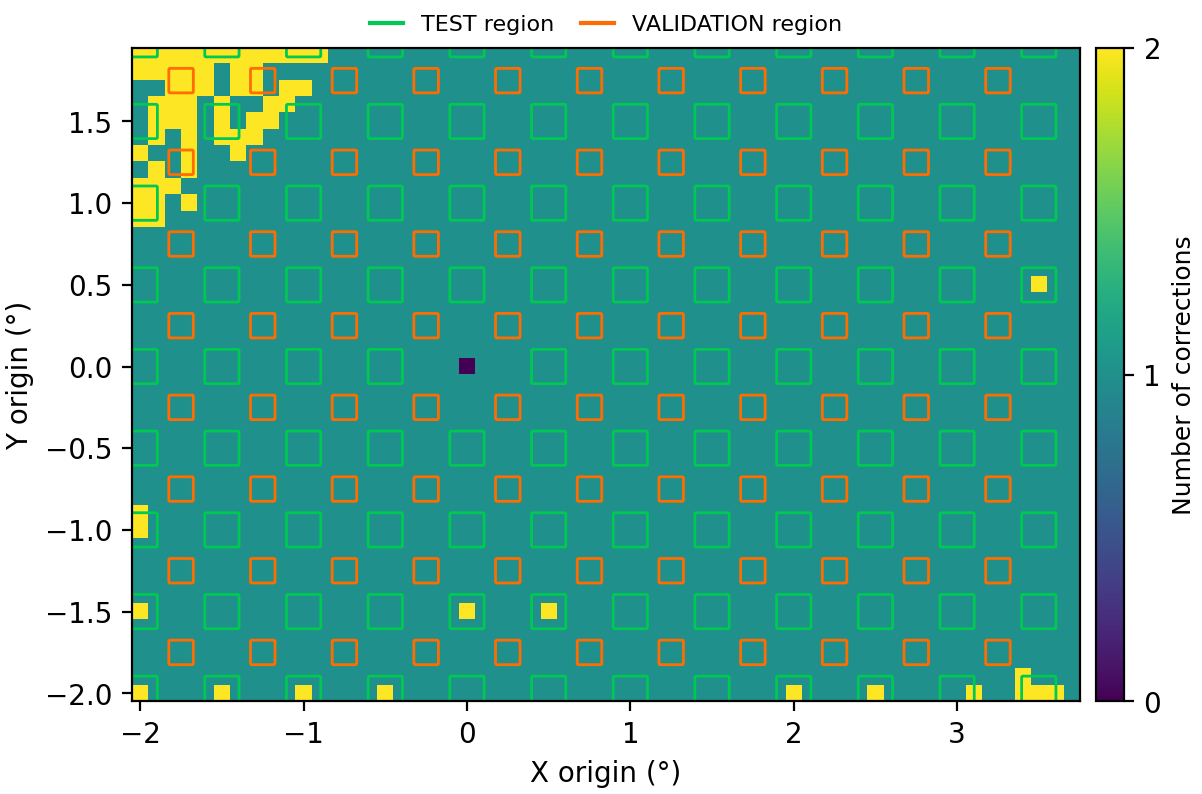
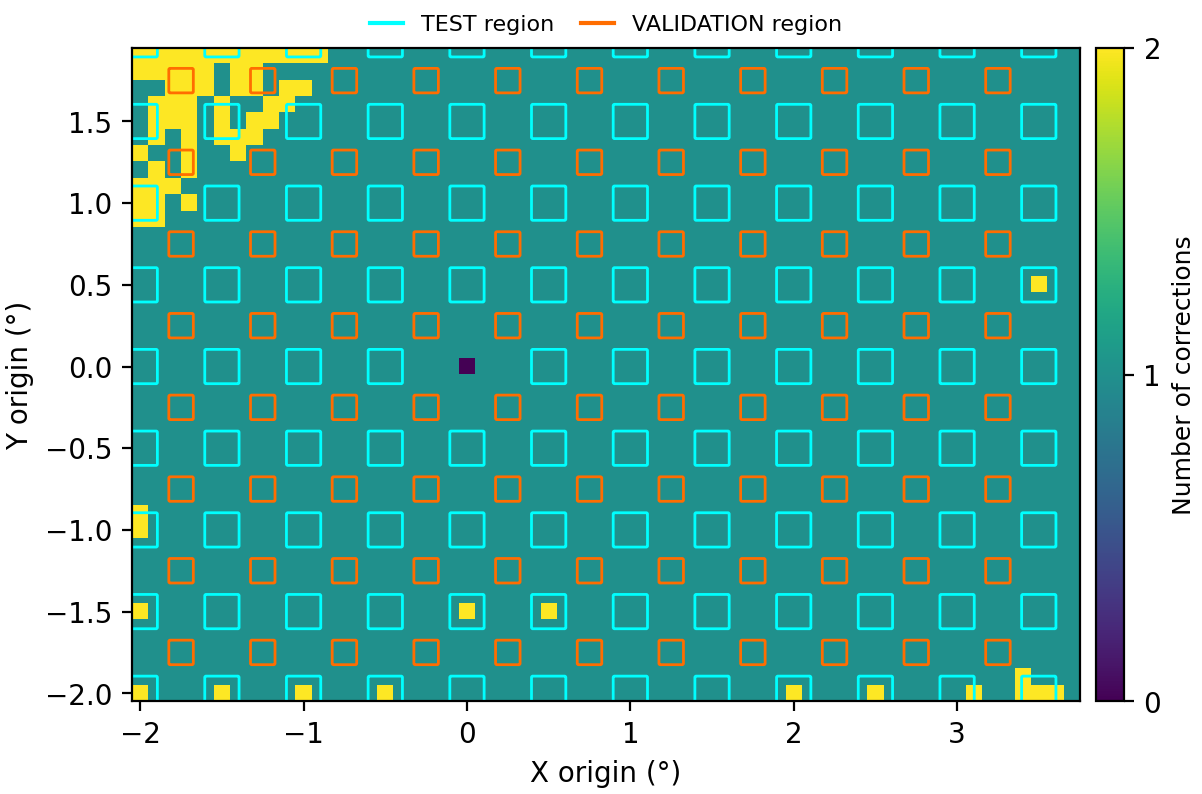
Blur perturbation, cyan/orange split palette, mlp256 in the data tables
- eval_batched.py: --blur N applies a box blur of that odd kernel before every other
  perturbation, recorded in settings()/describe() and the W&B keys
- heatmaps.py: TEST cyan, VALIDATION orange, in both the region outlines and the split
  map fills; report section 8 reworded to match
- reports/figures: all six model grids and the split map regenerated in the new palette
- reports/data: mlp256 (job 3943793, 67.38 M params, selected epoch 91) added to
  sweep_v2.md, tables_v2.md and the model table; its sweep is 43 conditions over 10
  perturbation seeds, its noise curve 9 levels over 10 seeds

Claude-Session: https://claude.ai/code/session_01XFnqH8k2tyqg3ghxTQtiGH

diff --git a/utils/eval_batched.py b/utils/eval_batched.py
@@ -73,7 +73,7 @@ from app.inference import model_from_state_dict, evaluate_position  # noqa: E402
 
 DEFAULT_CHECKPOINT = REPO_ROOT / "saved_models" / "real" / "r512_occ05-20img_n10_e96_3854472.pth"
 DEFAULT_DATA_DIR = "/mnt/h/dark512"
-PERTURB_KEYS = ("brightness", "brightness_fixed", "contrast", "contrast_fixed", "noise", "noise_min",
+PERTURB_KEYS = ("brightness", "brightness_fixed", "contrast", "contrast_fixed", "blur", "noise", "noise_min",
                 "occlusion_count", "occlusion_min", "occlusion_max", "occlusion_prob", "perturb_ssim",
                 "perturb_seed")
 
@@ -170,6 +170,7 @@ class Perturbation:
         self.brightness_fixed = args.brightness_fixed
         self.contrast = args.contrast
         self.contrast_fixed = args.contrast_fixed
+        self.blur = getattr(args, "blur", 0) or 0
         self.noise = args.noise or 0.0
         self.noise_min = args.noise_min if self.noise > 0 else None
         self.occlusion_count = args.occlusion_count
@@ -187,9 +188,11 @@ class Perturbation:
         self.ssim = bool(args.perturb_ssim)
         self.use_brightness = bool(self.brightness) or self.brightness_fixed is not None
         self.use_contrast = bool(self.contrast) or self.contrast_fixed is not None
+        self.use_blur = self.blur > 1
         self.use_noise = self.noise > 0
         self.use_occlusion = self.occlusion_count > 0 and self.occlusion_prob > 0
-        self.enabled = self.use_brightness or self.use_contrast or self.use_noise or self.use_occlusion
+        self.enabled = (self.use_brightness or self.use_contrast or self.use_blur or self.use_noise
+                        or self.use_occlusion)
 
         H, W = image_shape
         K = max(self.occlusion_count, 0)
@@ -245,6 +248,7 @@ class Perturbation:
             "brightness_fixed": self.brightness_fixed,
             "contrast": self.contrast,
             "contrast_fixed": self.contrast_fixed,
+            "blur": self.blur if self.use_blur else None,
             "noise": self.noise if self.use_noise else None,
             "noise_min": self.noise_min,
             "occlusion_count": self.occlusion_count,
@@ -270,6 +274,8 @@ class Perturbation:
             parts.append(f"contrast factor {self.contrast_fixed}")
         elif self.contrast is not None:
             parts.append(f"contrast factor in [{max(0.0, 1 - self.contrast):g}, {1 + self.contrast:g}] per trajectory")
+        if self.use_blur:
+            parts.append(f"{self.blur}x{self.blur} box blur before the other perturbations")
         if self.use_noise:
             if self.noise_min is not None:
                 parts.append(f"noise sigma in [{self.noise_min:g}, {self.noise:g}] per trajectory, re-drawn per step")
@@ -294,6 +300,11 @@ class Perturbation:
         idx_list = [int(i) for i in idx]
         steps = [0] * len(idx_list) if steps is None else [int(t) for t in steps]
         idx = torch.as_tensor(idx_list, device=self.device, dtype=torch.long)
+        if self.use_blur:
+            # Box blur of the captured frame, before anything else touches it. Edge pixels average
+            # only real pixels (count_include_pad=False), so the border does not darken.
+            x = torch.nn.functional.avg_pool2d(x, self.blur, stride=1, padding=self.blur // 2,
+                                               count_include_pad=False)
         if self.use_brightness:
             x = (x * self.bright[idx].view(-1, 1, 1, 1)).clamp_(0.0, 1.0)
         if self.use_contrast:
@@ -721,6 +732,9 @@ def parse_args(argv=None):
     c.add_argument("--contrast", type=float, default=None,
                    help="per-trajectory contrast factor drawn once in [1-C, 1+C]")
     c.add_argument("--contrast-fixed", type=float, default=None, help="contrast factor F for every trajectory")
+    q.add_argument("--blur", type=int, default=0,
+                   help="box blur of this odd kernel size, applied to the frame before every other "
+                        "perturbation (0: off)")
     q.add_argument("--noise", type=float, default=None, help="additive Gaussian noise sigma (in [0, 1] units), re-drawn per step")
     q.add_argument("--noise-min", type=float, default=None,
                    help="with --noise S: sigma drawn once per trajectory in [min, S]")
@@ -745,6 +759,8 @@ def parse_args(argv=None):
     args = p.parse_args(argv)
     if args.noise_min is not None and (args.noise is None or args.noise_min >= args.noise):
         p.error("--noise-min needs --noise S with min < S")
+    if args.blur and (args.blur < 3 or args.blur % 2 == 0):
+        p.error("--blur needs an odd kernel size >= 3")
     for name in ("brightness", "brightness_fixed", "contrast", "contrast_fixed", "noise"):
         v = getattr(args, name)
         if v is not None and v < 0:

diff --git a/holdout/heatmaps.py b/holdout/heatmaps.py
@@ -45,13 +45,13 @@ import matplotlib.ticker
 
 TRAIN, VAL, TEST = 0, 1, 2
 SPLIT_CODE = {"train": TRAIN, "val": VAL, "test": TEST}
-SPLIT_COLORS = {"train": "#4C72B0", "val": "#DD8452", "test": "#55A868"}
+SPLIT_COLORS = {"train": "#4C72B0", "val": "#FF6D00", "test": "#00FFFF"}
 GROUP_ORDER = ["train", "val", "test"]
 # display only; the CSV and stdout keep the short group names
 GROUP_LABELS = {"train": "train", "val": "validation", "test": "test"}
 
 # split map hues, saturated: the muted fills blend into viridis when drawn as thin lines
-TEST_OUTLINE_COLOR = "#00C853"
+TEST_OUTLINE_COLOR = "#00FFFF"
 VAL_OUTLINE_COLOR = "#FF6D00"
 NOT_CONVERGED_COLOR = "#FF3B30"
 

diff --git a/reports/data/sweep_v2.md b/reports/data/sweep_v2.md
@@ -1,45 +1,45 @@
-| condition | r64 | r128 | r256 | r512 | mlp128 |
-|---|---|---|---|---|---|
-| clean | 100.00±0.00% / 1.06 / 0.018±0.000 | 100.00±0.00% / 1.04 / 0.014±0.000 | 100.00±0.00% / 1.02 / 0.009±0.000 | 100.00±0.00% / 1.03 / 0.016±0.000 | 100.00±0.00% / 1.11 / 0.029±0.000 |
-| noise_0.02 | 100.00±0.00% / 1.06 / 0.018±0.000 | 100.00±0.00% / 1.04 / 0.014±0.000 | 100.00±0.00% / 1.02 / 0.009±0.000 | 100.00±0.00% / 1.03 / 0.014±0.000 | 100.00±0.00% / 1.10 / 0.027±0.000 |
-| noise_0.05 | 100.00±0.00% / 1.07 / 0.019±0.000 | 100.00±0.00% / 1.04 / 0.014±0.000 | 100.00±0.00% / 1.02 / 0.009±0.000 | 100.00±0.00% / 1.03 / 0.015±0.000 | 100.00±0.00% / 1.10 / 0.026±0.000 |
-| noise_0.10 | 100.00±0.00% / 1.11 / 0.022±0.000 | 100.00±0.00% / 1.06 / 0.016±0.000 | 100.00±0.00% / 1.03 / 0.012±0.000 | 100.00±0.00% / 1.04 / 0.016±0.000 | 100.00±0.00% / 1.10 / 0.026±0.000 |
-| noise_0.15 | 100.00±0.00% / 1.15 / 0.026±0.000 | 100.00±0.00% / 1.09 / 0.018±0.000 | 100.00±0.00% / 1.04 / 0.016±0.000 | 100.00±0.00% / 1.04 / 0.017±0.000 | 100.00±0.00% / 1.11 / 0.027±0.000 |
-| noise_0.20 | 100.00±0.00% / 1.23 / 0.032±0.000 | 100.00±0.00% / 1.11 / 0.021±0.000 | 100.00±0.00% / 1.08 / 0.021±0.000 | 100.00±0.00% / 1.06 / 0.019±0.000 | 100.00±0.00% / 1.13 / 0.028±0.000 |
-| noise_0.30 | 100.00±0.00% / 1.45 / 0.033±0.000 | 100.00±0.00% / 1.19 / 0.024±0.000 | 100.00±0.00% / 1.22 / 0.028±0.000 | 100.00±0.00% / 1.18 / 0.028±0.000 | 100.00±0.00% / 1.24 / 0.033±0.000 |
-| brightness_0.4 | 89.53±0.00% / 1.17 / 0.034±0.000 | 100.00±0.00% / 1.14 / 0.021±0.000 | 100.00±0.00% / 1.09 / 0.020±0.000 | 100.00±0.00% / 1.32 / 0.026±0.000 | 100.00±0.00% / 1.44 / 0.035±0.000 |
-| brightness_0.6 | 100.00±0.00% / 1.09 / 0.022±0.000 | 100.00±0.00% / 1.05 / 0.015±0.000 | 100.00±0.00% / 1.03 / 0.011±0.000 | 100.00±0.00% / 1.04 / 0.018±0.000 | 100.00±0.00% / 1.16 / 0.029±0.000 |
-| brightness_0.8 | 100.00±0.00% / 1.06 / 0.018±0.000 | 100.00±0.00% / 1.04 / 0.013±0.000 | 100.00±0.00% / 1.02 / 0.009±0.000 | 100.00±0.00% / 1.03 / 0.016±0.000 | 100.00±0.00% / 1.11 / 0.028±0.000 |
-| brightness_1.2 | 100.00±0.00% / 1.06 / 0.018±0.000 | 100.00±0.00% / 1.03 / 0.014±0.000 | 100.00±0.00% / 1.02 / 0.009±0.000 | 100.00±0.00% / 1.03 / 0.016±0.000 | 100.00±0.00% / 1.12 / 0.030±0.000 |
-| brightness_1.4 | 100.00±0.00% / 1.07 / 0.019±0.000 | 100.00±0.00% / 1.04 / 0.014±0.000 | 100.00±0.00% / 1.02 / 0.010±0.000 | 100.00±0.00% / 1.04 / 0.018±0.000 | 100.00±0.00% / 1.17 / 0.032±0.000 |
-| brightness_1.6 | 100.00±0.00% / 1.09 / 0.022±0.000 | 100.00±0.00% / 1.04 / 0.016±0.000 | 100.00±0.00% / 1.03 / 0.012±0.000 | 100.00±0.00% / 1.07 / 0.021±0.000 | 100.00±0.00% / 1.28 / 0.036±0.000 |
-| contrast_0.9 | 100.00±0.00% / 1.06 / 0.018±0.000 | 100.00±0.00% / 1.04 / 0.013±0.000 | 100.00±0.00% / 1.02 / 0.009±0.000 | 100.00±0.00% / 1.03 / 0.017±0.000 | 100.00±0.00% / 1.11 / 0.028±0.000 |
-| contrast_1.1 | 100.00±0.00% / 1.05 / 0.018±0.000 | 100.00±0.00% / 1.03 / 0.014±0.000 | 100.00±0.00% / 1.02 / 0.009±0.000 | 100.00±0.00% / 1.03 / 0.016±0.000 | 100.00±0.00% / 1.11 / 0.028±0.000 |
-| occlusion_1 | 100.00±0.01% / 1.12 / 0.022±0.000 | 100.00±0.00% / 1.07 / 0.018±0.000 | 100.00±0.00% / 1.04 / 0.014±0.000 | 99.90±0.07% / 1.09 / 0.023±0.000 | 92.65±0.44% / 1.38 / 0.046±0.001 |
-| occlusion_2 | 99.96±0.04% / 1.20 / 0.026±0.000 | 99.98±0.02% / 1.12 / 0.022±0.000 | 99.98±0.02% / 1.06 / 0.017±0.000 | 99.11±0.19% / 1.18 / 0.029±0.000 | 82.01±0.39% / 1.64 / 0.069±0.001 |
-| occlusion_1x10 | 100.00±0.00% / 1.07 / 0.019±0.000 | 100.00±0.00% / 1.05 / 0.015±0.000 | 100.00±0.00% / 1.03 / 0.010±0.000 | 100.00±0.00% / 1.04 / 0.017±0.000 | 99.95±0.05% / 1.17 / 0.031±0.000 |
-| occlusion_1x20 | 100.00±0.00% / 1.09 / 0.021±0.000 | 100.00±0.00% / 1.06 / 0.016±0.000 | 100.00±0.00% / 1.03 / 0.012±0.000 | 100.00±0.00% / 1.06 / 0.020±0.000 | 97.46±0.30% / 1.29 / 0.037±0.001 |
-| occlusion_1x30 | 100.00±0.00% / 1.13 / 0.023±0.000 | 100.00±0.00% / 1.08 / 0.018±0.000 | 100.00±0.00% / 1.04 / 0.014±0.000 | 99.98±0.03% / 1.10 / 0.023±0.000 | 91.46±0.45% / 1.43 / 0.048±0.001 |
-| occlusion_1x40 | 99.99±0.02% / 1.20 / 0.026±0.000 | 100.00±0.00% / 1.12 / 0.022±0.000 | 100.00±0.00% / 1.06 / 0.017±0.000 | 98.14±0.24% / 1.22 / 0.031±0.000 | 81.43±0.50% / 1.63 / 0.067±0.002 |
-| occlusion_1x50 | 99.42±0.09% / 1.35 / 0.030±0.000 | 99.97±0.03% / 1.22 / 0.026±0.000 | 99.72±0.09% / 1.14 / 0.023±0.000 | 83.31±0.58% / 1.44 / 0.063±0.001 | 63.54±0.75% / 1.93 / 0.115±0.003 |
-| occlusion_2x10 | 100.00±0.00% / 1.09 / 0.020±0.000 | 100.00±0.00% / 1.05 / 0.016±0.000 | 100.00±0.00% / 1.03 / 0.011±0.000 | 100.00±0.00% / 1.05 / 0.019±0.000 | 99.76±0.13% / 1.23 / 0.033±0.000 |
-| occlusion_2x20 | 100.00±0.00% / 1.13 / 0.023±0.000 | 100.00±0.00% / 1.08 / 0.019±0.000 | 100.00±0.00% / 1.04 / 0.014±0.000 | 99.97±0.02% / 1.09 / 0.023±0.000 | 93.15±0.48% / 1.45 / 0.047±0.001 |
-| occlusion_2x30 | 99.93±0.06% / 1.21 / 0.027±0.000 | 99.98±0.03% / 1.14 / 0.022±0.000 | 100.00±0.01% / 1.07 / 0.018±0.000 | 99.08±0.19% / 1.22 / 0.030±0.000 | 78.47±0.74% / 1.73 / 0.076±0.001 |
-| occlusion_2x40 | 98.99±0.19% / 1.41 / 0.033±0.000 | 99.03±0.25% / 1.27 / 0.029±0.000 | 99.04±0.18% / 1.16 / 0.025±0.001 | 87.07±0.64% / 1.51 / 0.059±0.002 | 57.78±0.76% / 2.02 / 0.153±0.005 |
-| occlusion_2x50 | 92.40±0.45% / 1.76 / 0.057±0.005 | 93.52±0.46% / 1.51 / 0.044±0.002 | 89.97±0.47% / 1.35 / 0.053±0.002 | 50.74±0.83% / 1.83 / 0.199±0.005 | 34.67±0.98% / 2.42 / 0.359±0.010 |
-| occlusion_1x30_bright | 99.98±0.03% / 1.14 / 0.025±0.000 | 100.00±0.00% / 1.07 / 0.019±0.000 | 100.00±0.00% / 1.04 / 0.014±0.000 | 99.99±0.02% / 1.08 / 0.022±0.000 | 86.49±0.78% / 1.55 / 0.055±0.001 |
-| occlusion_2x30_bright | 99.51±0.12% / 1.25 / 0.031±0.000 | 99.96±0.05% / 1.13 / 0.023±0.000 | 99.97±0.03% / 1.07 / 0.018±0.000 | 99.43±0.11% / 1.17 / 0.028±0.000 | 63.94±0.87% / 1.88 / 0.098±0.001 |
-| occlusion_2x50_bright | 63.51±1.03% / 2.06 / 0.177±0.006 | 78.91±0.77% / 1.60 / 0.070±0.001 | 89.83±0.61% / 1.35 / 0.051±0.002 | 60.83±1.05% / 1.85 / 0.140±0.003 | 27.83±0.70% / 3.36 / 0.510±0.015 |
-| occlusion_1x30_rot | 100.00±0.00% / 1.12 / 0.023±0.000 | 100.00±0.00% / 1.08 / 0.018±0.000 | 100.00±0.00% / 1.04 / 0.014±0.000 | 99.97±0.04% / 1.10 / 0.023±0.000 | 91.86±0.62% / 1.42 / 0.048±0.001 |
-| occlusion_2x30_rot | 99.96±0.04% / 1.21 / 0.027±0.000 | 99.98±0.03% / 1.13 / 0.022±0.000 | 100.00±0.01% / 1.06 / 0.018±0.000 | 99.21±0.15% / 1.21 / 0.030±0.000 | 79.14±0.96% / 1.73 / 0.075±0.002 |
-| occlusion_2x50_rot | 93.08±0.38% / 1.77 / 0.055±0.003 | 93.74±0.65% / 1.50 / 0.043±0.002 | 92.04±0.57% / 1.36 / 0.046±0.002 | 54.57±0.83% / 1.89 / 0.172±0.003 | 37.61±0.79% / 2.42 / 0.335±0.008 |
-| occlusion_1x30_rotbright | 99.99±0.02% / 1.13 / 0.024±0.000 | 100.00±0.00% / 1.07 / 0.018±0.000 | 100.00±0.00% / 1.04 / 0.014±0.000 | 100.00±0.00% / 1.07 / 0.021±0.000 | 85.85±0.73% / 1.55 / 0.056±0.001 |
-| occlusion_2x30_rotbright | 99.65±0.14% / 1.24 / 0.030±0.000 | 99.99±0.02% / 1.11 / 0.023±0.000 | 99.97±0.02% / 1.06 / 0.018±0.000 | 99.53±0.11% / 1.14 / 0.027±0.000 | 64.05±1.03% / 1.88 / 0.098±0.002 |
-| occlusion_2x50_rotbright | 74.50±0.89% / 1.82 / 0.107±0.003 | 82.08±1.01% / 1.57 / 0.064±0.002 | 91.69±0.60% / 1.32 / 0.046±0.002 | 67.15±0.51% / 1.84 / 0.122±0.003 | 27.88±0.71% / 3.23 / 0.466±0.008 |
-| occlusion_2_mixed | 99.80±0.08% / 1.21 / 0.027±0.001 | 99.91±0.05% / 1.11 / 0.022±0.000 | 99.97±0.04% / 1.06 / 0.017±0.000 | 99.50±0.13% / 1.15 / 0.027±0.000 | 73.22±0.82% / 1.71 / 0.084±0.001 |
-| occlusion_2x30_fill | 99.81±0.10% / 1.20 / 0.028±0.000 | 99.98±0.02% / 1.11 / 0.022±0.000 | 99.96±0.03% / 1.06 / 0.018±0.000 | 99.47±0.16% / 1.15 / 0.028±0.000 | 84.51±0.81% / 1.59 / 0.061±0.001 |
-| occlusion_2x30_rotfill | 99.82±0.06% / 1.19 / 0.027±0.000 | 99.97±0.04% / 1.10 / 0.022±0.000 | 99.97±0.03% / 1.05 / 0.017±0.000 | 99.66±0.12% / 1.13 / 0.027±0.000 | 84.59±0.75% / 1.58 / 0.060±0.001 |
-| occlusion_2x50_rotfill | 84.22±0.95% / 1.62 / 0.073±0.002 | 90.21±0.47% / 1.44 / 0.047±0.001 | 93.18±0.57% / 1.30 / 0.042±0.002 | 70.00±0.94% / 1.81 / 0.113±0.003 | 48.58±1.42% / 2.41 / 0.234±0.007 |
-| occlusion_2_mixedfill | 99.86±0.07% / 1.17 / 0.026±0.000 | 99.97±0.03% / 1.09 / 0.021±0.000 | 99.99±0.02% / 1.05 / 0.016±0.000 | 99.67±0.09% / 1.12 / 0.025±0.000 | 86.82±0.59% / 1.53 / 0.057±0.001 |
-| combined | 99.64±0.11% / 1.32 / 0.035±0.002 | 99.95±0.05% / 1.17 / 0.024±0.000 | 99.98±0.03% / 1.08 / 0.020±0.000 | 99.58±0.12% / 1.19 / 0.029±0.001 | 75.71±0.97% / 1.91 / 0.089±0.003 |
-| combined_harsh | 84.97±0.73% / 2.10 / 0.100±0.008 | 99.73±0.13% / 1.41 / 0.035±0.003 | 99.84±0.10% / 1.40 / 0.033±0.001 | 99.03±0.16% / 1.44 / 0.037±0.001 | 37.75±0.53% / 2.86 / 0.373±0.010 |
+| condition | r64 | r128 | r256 | r512 | mlp128 | mlp256 |
+|---|---|---|---|---|---|---|
+| clean | 100.00±0.00% / 1.06 / 0.018±0.000 | 100.00±0.00% / 1.04 / 0.014±0.000 | 100.00±0.00% / 1.02 / 0.009±0.000 | 100.00±0.00% / 1.03 / 0.016±0.000 | 100.00±0.00% / 1.11 / 0.029±0.000 | 100.00±0.00% / 1.11 / 0.027±0.000 |
+| noise_0.02 | 100.00±0.00% / 1.06 / 0.018±0.000 | 100.00±0.00% / 1.04 / 0.014±0.000 | 100.00±0.00% / 1.02 / 0.009±0.000 | 100.00±0.00% / 1.03 / 0.014±0.000 | 100.00±0.00% / 1.10 / 0.027±0.000 | 100.00±0.00% / 1.09 / 0.027±0.000 |
+| noise_0.05 | 100.00±0.00% / 1.07 / 0.019±0.000 | 100.00±0.00% / 1.04 / 0.014±0.000 | 100.00±0.00% / 1.02 / 0.009±0.000 | 100.00±0.00% / 1.03 / 0.015±0.000 | 100.00±0.00% / 1.10 / 0.026±0.000 | 100.00±0.00% / 1.09 / 0.029±0.000 |
+| noise_0.10 | 100.00±0.00% / 1.11 / 0.022±0.000 | 100.00±0.00% / 1.06 / 0.016±0.000 | 100.00±0.00% / 1.03 / 0.012±0.000 | 100.00±0.00% / 1.04 / 0.016±0.000 | 100.00±0.00% / 1.10 / 0.026±0.000 | 100.00±0.00% / 1.10 / 0.029±0.000 |
+| noise_0.15 | 100.00±0.00% / 1.15 / 0.026±0.000 | 100.00±0.00% / 1.09 / 0.018±0.000 | 100.00±0.00% / 1.04 / 0.016±0.000 | 100.00±0.00% / 1.04 / 0.017±0.000 | 100.00±0.00% / 1.11 / 0.027±0.000 | 100.00±0.00% / 1.10 / 0.029±0.000 |
+| noise_0.20 | 100.00±0.00% / 1.23 / 0.032±0.000 | 100.00±0.00% / 1.11 / 0.021±0.000 | 100.00±0.00% / 1.08 / 0.021±0.000 | 100.00±0.00% / 1.06 / 0.019±0.000 | 100.00±0.00% / 1.13 / 0.028±0.000 | 100.00±0.00% / 1.12 / 0.030±0.000 |
+| noise_0.30 | 100.00±0.00% / 1.45 / 0.033±0.000 | 100.00±0.00% / 1.19 / 0.024±0.000 | 100.00±0.00% / 1.22 / 0.028±0.000 | 100.00±0.00% / 1.18 / 0.028±0.000 | 100.00±0.00% / 1.24 / 0.033±0.000 | 100.00±0.00% / 1.24 / 0.034±0.000 |
+| brightness_0.4 | 89.53±0.00% / 1.17 / 0.034±0.000 | 100.00±0.00% / 1.14 / 0.021±0.000 | 100.00±0.00% / 1.09 / 0.020±0.000 | 100.00±0.00% / 1.32 / 0.026±0.000 | 100.00±0.00% / 1.44 / 0.035±0.000 | 100.00±0.00% / 1.43 / 0.034±0.000 |
+| brightness_0.6 | 100.00±0.00% / 1.09 / 0.022±0.000 | 100.00±0.00% / 1.05 / 0.015±0.000 | 100.00±0.00% / 1.03 / 0.011±0.000 | 100.00±0.00% / 1.04 / 0.018±0.000 | 100.00±0.00% / 1.16 / 0.029±0.000 | 100.00±0.00% / 1.17 / 0.030±0.000 |
+| brightness_0.8 | 100.00±0.00% / 1.06 / 0.018±0.000 | 100.00±0.00% / 1.04 / 0.013±0.000 | 100.00±0.00% / 1.02 / 0.009±0.000 | 100.00±0.00% / 1.03 / 0.016±0.000 | 100.00±0.00% / 1.11 / 0.028±0.000 | 100.00±0.00% / 1.12 / 0.027±0.000 |
+| brightness_1.2 | 100.00±0.00% / 1.06 / 0.018±0.000 | 100.00±0.00% / 1.03 / 0.014±0.000 | 100.00±0.00% / 1.02 / 0.009±0.000 | 100.00±0.00% / 1.03 / 0.016±0.000 | 100.00±0.00% / 1.12 / 0.030±0.000 | 100.00±0.00% / 1.12 / 0.028±0.000 |
+| brightness_1.4 | 100.00±0.00% / 1.07 / 0.019±0.000 | 100.00±0.00% / 1.04 / 0.014±0.000 | 100.00±0.00% / 1.02 / 0.010±0.000 | 100.00±0.00% / 1.04 / 0.018±0.000 | 100.00±0.00% / 1.17 / 0.032±0.000 | 100.00±0.00% / 1.15 / 0.030±0.000 |
+| brightness_1.6 | 100.00±0.00% / 1.09 / 0.022±0.000 | 100.00±0.00% / 1.04 / 0.016±0.000 | 100.00±0.00% / 1.03 / 0.012±0.000 | 100.00±0.00% / 1.07 / 0.021±0.000 | 100.00±0.00% / 1.28 / 0.036±0.000 | 100.00±0.00% / 1.23 / 0.033±0.000 |
+| contrast_0.9 | 100.00±0.00% / 1.06 / 0.018±0.000 | 100.00±0.00% / 1.04 / 0.013±0.000 | 100.00±0.00% / 1.02 / 0.009±0.000 | 100.00±0.00% / 1.03 / 0.017±0.000 | 100.00±0.00% / 1.11 / 0.028±0.000 | 100.00±0.00% / 1.11 / 0.026±0.000 |
+| contrast_1.1 | 100.00±0.00% / 1.05 / 0.018±0.000 | 100.00±0.00% / 1.03 / 0.014±0.000 | 100.00±0.00% / 1.02 / 0.009±0.000 | 100.00±0.00% / 1.03 / 0.016±0.000 | 100.00±0.00% / 1.11 / 0.028±0.000 | 100.00±0.00% / 1.10 / 0.028±0.000 |
+| occlusion_1 | 100.00±0.01% / 1.12 / 0.022±0.000 | 100.00±0.00% / 1.07 / 0.018±0.000 | 100.00±0.00% / 1.04 / 0.014±0.000 | 99.90±0.07% / 1.09 / 0.023±0.000 | 92.65±0.44% / 1.38 / 0.046±0.001 | 94.94±0.33% / 1.39 / 0.042±0.001 |
+| occlusion_2 | 99.96±0.04% / 1.20 / 0.026±0.000 | 99.98±0.02% / 1.12 / 0.022±0.000 | 99.98±0.02% / 1.06 / 0.017±0.000 | 99.11±0.19% / 1.18 / 0.029±0.000 | 82.01±0.39% / 1.64 / 0.069±0.001 | 83.65±0.96% / 1.62 / 0.064±0.002 |
+| occlusion_1x10 | 100.00±0.00% / 1.07 / 0.019±0.000 | 100.00±0.00% / 1.05 / 0.015±0.000 | 100.00±0.00% / 1.03 / 0.010±0.000 | 100.00±0.00% / 1.04 / 0.017±0.000 | 99.95±0.05% / 1.17 / 0.031±0.000 | 99.97±0.04% / 1.18 / 0.029±0.000 |
+| occlusion_1x20 | 100.00±0.00% / 1.09 / 0.021±0.000 | 100.00±0.00% / 1.06 / 0.016±0.000 | 100.00±0.00% / 1.03 / 0.012±0.000 | 100.00±0.00% / 1.06 / 0.020±0.000 | 97.46±0.30% / 1.29 / 0.037±0.001 | 98.74±0.14% / 1.30 / 0.035±0.000 |
+| occlusion_1x30 | 100.00±0.00% / 1.13 / 0.023±0.000 | 100.00±0.00% / 1.08 / 0.018±0.000 | 100.00±0.00% / 1.04 / 0.014±0.000 | 99.98±0.03% / 1.10 / 0.023±0.000 | 91.46±0.45% / 1.43 / 0.048±0.001 | 93.98±0.27% / 1.43 / 0.044±0.000 |
+| occlusion_1x40 | 99.99±0.02% / 1.20 / 0.026±0.000 | 100.00±0.00% / 1.12 / 0.022±0.000 | 100.00±0.00% / 1.06 / 0.017±0.000 | 98.14±0.24% / 1.22 / 0.031±0.000 | 81.43±0.50% / 1.63 / 0.067±0.002 | 82.61±0.87% / 1.59 / 0.064±0.001 |
+| occlusion_1x50 | 99.42±0.09% / 1.35 / 0.030±0.000 | 99.97±0.03% / 1.22 / 0.026±0.000 | 99.72±0.09% / 1.14 / 0.023±0.000 | 83.31±0.58% / 1.44 / 0.063±0.001 | 63.54±0.75% / 1.93 / 0.115±0.003 | 61.83±0.93% / 1.86 / 0.107±0.002 |
+| occlusion_2x10 | 100.00±0.00% / 1.09 / 0.020±0.000 | 100.00±0.00% / 1.05 / 0.016±0.000 | 100.00±0.00% / 1.03 / 0.011±0.000 | 100.00±0.00% / 1.05 / 0.019±0.000 | 99.76±0.13% / 1.23 / 0.033±0.000 | 99.82±0.06% / 1.24 / 0.032±0.000 |
+| occlusion_2x20 | 100.00±0.00% / 1.13 / 0.023±0.000 | 100.00±0.00% / 1.08 / 0.019±0.000 | 100.00±0.00% / 1.04 / 0.014±0.000 | 99.97±0.02% / 1.09 / 0.023±0.000 | 93.15±0.48% / 1.45 / 0.047±0.001 | 94.84±0.36% / 1.47 / 0.043±0.000 |
+| occlusion_2x30 | 99.93±0.06% / 1.21 / 0.027±0.000 | 99.98±0.03% / 1.14 / 0.022±0.000 | 100.00±0.01% / 1.07 / 0.018±0.000 | 99.08±0.19% / 1.22 / 0.030±0.000 | 78.47±0.74% / 1.73 / 0.076±0.001 | 79.50±0.82% / 1.70 / 0.072±0.002 |
+| occlusion_2x40 | 98.99±0.19% / 1.41 / 0.033±0.000 | 99.03±0.25% / 1.27 / 0.029±0.000 | 99.04±0.18% / 1.16 / 0.025±0.001 | 87.07±0.64% / 1.51 / 0.059±0.002 | 57.78±0.76% / 2.02 / 0.153±0.005 | 55.88±0.67% / 1.95 / 0.150±0.004 |
+| occlusion_2x50 | 92.40±0.45% / 1.76 / 0.057±0.005 | 93.52±0.46% / 1.51 / 0.044±0.002 | 89.97±0.47% / 1.35 / 0.053±0.002 | 50.74±0.83% / 1.83 / 0.199±0.005 | 34.67±0.98% / 2.42 / 0.359±0.010 | 33.23±1.01% / 2.37 / 0.341±0.007 |
+| occlusion_1x30_bright | 99.98±0.03% / 1.14 / 0.025±0.000 | 100.00±0.00% / 1.07 / 0.019±0.000 | 100.00±0.00% / 1.04 / 0.014±0.000 | 99.99±0.02% / 1.08 / 0.022±0.000 | 86.49±0.78% / 1.55 / 0.055±0.001 | 85.32±0.78% / 1.55 / 0.057±0.001 |
+| occlusion_2x30_bright | 99.51±0.12% / 1.25 / 0.031±0.000 | 99.96±0.05% / 1.13 / 0.023±0.000 | 99.97±0.03% / 1.07 / 0.018±0.000 | 99.43±0.11% / 1.17 / 0.028±0.000 | 63.94±0.87% / 1.88 / 0.098±0.001 | 60.76±0.84% / 1.84 / 0.104±0.001 |
+| occlusion_2x50_bright | 63.51±1.03% / 2.06 / 0.177±0.006 | 78.91±0.77% / 1.60 / 0.070±0.001 | 89.83±0.61% / 1.35 / 0.051±0.002 | 60.83±1.05% / 1.85 / 0.140±0.003 | 27.83±0.70% / 3.36 / 0.510±0.015 | 22.26±0.92% / 3.17 / 0.550±0.007 |
+| occlusion_1x30_rot | 100.00±0.00% / 1.12 / 0.023±0.000 | 100.00±0.00% / 1.08 / 0.018±0.000 | 100.00±0.00% / 1.04 / 0.014±0.000 | 99.97±0.04% / 1.10 / 0.023±0.000 | 91.86±0.62% / 1.42 / 0.048±0.001 | 94.93±0.42% / 1.43 / 0.043±0.001 |
+| occlusion_2x30_rot | 99.96±0.04% / 1.21 / 0.027±0.000 | 99.98±0.03% / 1.13 / 0.022±0.000 | 100.00±0.01% / 1.06 / 0.018±0.000 | 99.21±0.15% / 1.21 / 0.030±0.000 | 79.14±0.96% / 1.73 / 0.075±0.002 | 81.28±0.63% / 1.70 / 0.069±0.002 |
+| occlusion_2x50_rot | 93.08±0.38% / 1.77 / 0.055±0.003 | 93.74±0.65% / 1.50 / 0.043±0.002 | 92.04±0.57% / 1.36 / 0.046±0.002 | 54.57±0.83% / 1.89 / 0.172±0.003 | 37.61±0.79% / 2.42 / 0.335±0.008 | 34.47±1.28% / 2.32 / 0.329±0.006 |
+| occlusion_1x30_rotbright | 99.99±0.02% / 1.13 / 0.024±0.000 | 100.00±0.00% / 1.07 / 0.018±0.000 | 100.00±0.00% / 1.04 / 0.014±0.000 | 100.00±0.00% / 1.07 / 0.021±0.000 | 85.85±0.73% / 1.55 / 0.056±0.001 | 84.57±0.67% / 1.54 / 0.056±0.001 |
+| occlusion_2x30_rotbright | 99.65±0.14% / 1.24 / 0.030±0.000 | 99.99±0.02% / 1.11 / 0.023±0.000 | 99.97±0.02% / 1.06 / 0.018±0.000 | 99.53±0.11% / 1.14 / 0.027±0.000 | 64.05±1.03% / 1.88 / 0.098±0.002 | 60.79±0.61% / 1.82 / 0.103±0.001 |
+| occlusion_2x50_rotbright | 74.50±0.89% / 1.82 / 0.107±0.003 | 82.08±1.01% / 1.57 / 0.064±0.002 | 91.69±0.60% / 1.32 / 0.046±0.002 | 67.15±0.51% / 1.84 / 0.122±0.003 | 27.88±0.71% / 3.23 / 0.466±0.008 | 23.57±1.26% / 3.12 / 0.516±0.009 |
+| occlusion_2_mixed | 99.80±0.08% / 1.21 / 0.027±0.001 | 99.91±0.05% / 1.11 / 0.022±0.000 | 99.97±0.04% / 1.06 / 0.017±0.000 | 99.50±0.13% / 1.15 / 0.027±0.000 | 73.22±0.82% / 1.71 / 0.084±0.001 | 72.38±0.94% / 1.69 / 0.085±0.002 |
+| occlusion_2x30_fill | 99.81±0.10% / 1.20 / 0.028±0.000 | 99.98±0.02% / 1.11 / 0.022±0.000 | 99.96±0.03% / 1.06 / 0.018±0.000 | 99.47±0.16% / 1.15 / 0.028±0.000 | 84.51±0.81% / 1.59 / 0.061±0.001 | 83.40±0.60% / 1.57 / 0.062±0.001 |
+| occlusion_2x30_rotfill | 99.82±0.06% / 1.19 / 0.027±0.000 | 99.97±0.04% / 1.10 / 0.022±0.000 | 99.97±0.03% / 1.05 / 0.017±0.000 | 99.66±0.12% / 1.13 / 0.027±0.000 | 84.59±0.75% / 1.58 / 0.060±0.001 | 83.48±0.70% / 1.56 / 0.061±0.001 |
+| occlusion_2x50_rotfill | 84.22±0.95% / 1.62 / 0.073±0.002 | 90.21±0.47% / 1.44 / 0.047±0.001 | 93.18±0.57% / 1.30 / 0.042±0.002 | 70.00±0.94% / 1.81 / 0.113±0.003 | 48.58±1.42% / 2.41 / 0.234±0.007 | 44.21±0.73% / 2.30 / 0.253±0.007 |
+| occlusion_2_mixedfill | 99.86±0.07% / 1.17 / 0.026±0.000 | 99.97±0.03% / 1.09 / 0.021±0.000 | 99.99±0.02% / 1.05 / 0.016±0.000 | 99.67±0.09% / 1.12 / 0.025±0.000 | 86.82±0.59% / 1.53 / 0.057±0.001 | 85.74±0.85% / 1.52 / 0.058±0.001 |
+| combined | 99.64±0.11% / 1.32 / 0.035±0.002 | 99.95±0.05% / 1.17 / 0.024±0.000 | 99.98±0.03% / 1.08 / 0.020±0.000 | 99.58±0.12% / 1.19 / 0.029±0.001 | 75.71±0.97% / 1.91 / 0.089±0.003 | 74.73±0.66% / 1.88 / 0.093±0.003 |
+| combined_harsh | 84.97±0.73% / 2.10 / 0.100±0.008 | 99.73±0.13% / 1.41 / 0.035±0.003 | 99.84±0.10% / 1.40 / 0.033±0.001 | 99.03±0.16% / 1.44 / 0.037±0.001 | 37.75±0.53% / 2.86 / 0.373±0.010 | 34.59±0.74% / 2.79 / 0.362±0.009 |

diff --git a/reports/data/model_table.md b/reports/data/model_table.md
@@ -1,9 +1,10 @@
 | label | arch | split | resolution | params | weights_MB | RAM_peak_MB | RAM_forward_MB | best_val_mse | metric | runs | starts | clean | noisy (noise_0.20) | occlusion (occlusion_2x30) | combined_harsh |
 |---|---|---|---|---|---|---|---|---|---|---|---|---|---|---|---|
-| r64 | resnet18 | holdout | 64 | 11.17 M | 42.7 | 90.0 | 11.5 | 3.23e-05 | closed-loop final error, 0.1 deg grid | 10 | 2320 | 0.01770 | 0.03208 ± 7.5e-05 | 0.02676 ± 0.00039 | 0.10025 ± 0.0083 |
+| r64 | resnet18 | holdout | 64 | 11.17 M | 42.7 | 90.2 | 11.5 | 3.23e-05 | closed-loop final error, 0.1 deg grid | 10 | 2320 | 0.01770 | 0.03208 ± 7.5e-05 | 0.02676 ± 0.00039 | 0.10025 ± 0.0083 |
 | r128 | resnet18 | holdout | 128 | 11.17 M | 42.7 | 90.2 | 16.3 | 2.08e-05 | closed-loop final error, 0.1 deg grid | 10 | 2320 | 0.01360 | 0.02056 ± 0.00015 | 0.02240 ± 0.0003 | 0.03479 ± 0.0027 |
-| r256 | resnet18 | holdout | 256 | 11.17 M | 42.7 | 90.2 | 27.7 | 1.61e-05 | closed-loop final error, 0.1 deg grid | 10 | 2320 | 0.00928 | 0.02112 ± 0.00019 | 0.01803 ± 0.00024 | 0.03289 ± 0.00057 |
-| r512 | resnet18 | holdout | 512 | 11.17 M | 42.7 | 118.7 | 67.5 | 2.18e-05 | closed-loop final error, 0.1 deg grid | 10 | 2320 | 0.01580 | 0.01944 ± 0.00016 | 0.03047 ± 0.0003 | 0.03686 ± 0.00057 |
-| mlp128 | mlp | holdout | 128 | 17.05 M | 65.1 | 133.9 | 3.0 | 5.42e-05 | closed-loop final error, 0.1 deg grid | 10 | 2320 | 0.02863 | 0.02772 ± 0.0002 | 0.07584 ± 0.0014 | 0.37325 ± 0.01 |
+| r256 | resnet18 | holdout | 256 | 11.17 M | 42.7 | 90.1 | 27.7 | 1.61e-05 | closed-loop final error, 0.1 deg grid | 10 | 2320 | 0.00928 | 0.02112 ± 0.00019 | 0.01803 ± 0.00024 | 0.03289 ± 0.00057 |
+| r512 | resnet18 | holdout | 512 | 11.17 M | 42.7 | 122.6 | 71.3 | 2.18e-05 | closed-loop final error, 0.1 deg grid | 10 | 2320 | 0.01580 | 0.01944 ± 0.00016 | 0.03047 ± 0.0003 | 0.03686 ± 0.00057 |
+| mlp128 | mlp | holdout | 128 | 17.05 M | 65.1 | 134.1 | 3.0 | 5.42e-05 | closed-loop final error, 0.1 deg grid | 10 | 2320 | 0.02863 | 0.02772 ± 0.0002 | 0.07584 ± 0.0014 | 0.37325 ± 0.01 |
+| mlp256 | mlp | holdout | 256 | 67.38 M | 257.1 | 518.2 | 3.2 | 5.09e-05 | closed-loop final error, 0.1 deg grid | 10 | 2320 | 0.02706 | 0.02965 ± 0.00026 | 0.07245 ± 0.002 | 0.36226 ± 0.0095 |
 
-**Notes.** Units: MB = 2^20 bytes; errors in degrees. `arch` is detected from the checkpoint keys (resnet18, or mlp = the 4-layer fully connected SimpleFC on the flattened r*r input). `params` is the number of trainable parameters (ResNet-18: independent of input size because of the adaptive average pool; MLP: dominated by the first layer, r*r*1024); the state dicts additionally hold BatchNorm buffer values (running mean/var, num_batches_tracked, per row below), not counted in `params`. `weights_MB` is the float32 size of the state dict's floating-point tensors (parameters plus BatchNorm running statistics). RAM columns are measured, not estimated: for each resolution a fresh Python subprocess (CPU only, torch 2.6.0+cu118, torch.set_num_threads(4) to match the 4-core Raspberry Pi 4) imports torch and the model definitions (app/inference.py), then records VmRSS from /proc/self/status as the baseline; VmHWM was reset to the baseline RSS via /proc/self/clear_refs before building the model. It then builds the model, loads the checkpoint (state dict freed after loading), runs 5 forwards in torch.inference_mode on a float32 (1, 1, r, r) input and records VmHWM. `RAM_peak_MB` = overall peak VmHWM (build, load and forwards) minus baseline VmRSS; at batch 1 up to r256 it is set by weight loading (model plus the transient state dict copy), so it barely depends on resolution. `RAM_forward_MB` = peak increase during the forward passes only: after loading, VmHWM is reset again and the column is VmHWM after the forwards minus VmRSS before them; this is the activation/workspace part that scales with resolution. Absolute values: mlp r128: peak 512 MB absolute (baseline 378 MB, load peak 512 MB, RSS after load 448 MB, forward-only peak increase 3.0 MB, RSS after inference 451 MB, weights loaded from checkpoint), resnet18 r64: peak 469 MB absolute (baseline 379 MB, load peak 469 MB, RSS after load 430 MB, forward-only peak increase 11.5 MB, RSS after inference 442 MB, weights loaded from checkpoint), resnet18 r128: peak 469 MB absolute (baseline 379 MB, load peak 469 MB, RSS after load 430 MB, forward-only peak increase 16.3 MB, RSS after inference 446 MB, weights loaded from checkpoint), resnet18 r256: peak 469 MB absolute (baseline 379 MB, load peak 469 MB, RSS after load 430 MB, forward-only peak increase 27.7 MB, RSS after inference 458 MB, weights loaded from checkpoint), resnet18 r512: peak 498 MB absolute (baseline 379 MB, load peak 469 MB, RSS after load 430 MB, forward-only peak increase 67.5 MB, RSS after inference 470 MB, weights loaded from checkpoint). The probe ran on this x86-64 machine with a CUDA build of torch, so absolute RSS (dominated by the torch import) is not representative of a Pi; the increase is the model-specific part, though ARM CPU kernels may use different workspace memory. `best_val_mse` is the best validation MSE (training loss on normalized targets) from train_summary.json, else the W&B run summary. Evaluation cells are mean ± std, std over perturbation seeds (`runs`); clean has a single run and shows only the mean. Both splits: closed-loop replay over the 0.1 deg grid (utils/eval_sweep.py, eval_dir/sweep.csv), metric = final angular error after the loop, averaged over `starts` start positions. Conditions: noisy = noise_0.20, occlusion = occlusion_2x30, combined_harsh. Per-row sources: r64: params 11171266 (buffers 9620) from resnet18 with checkpoint loaded; best_val_mse from eval_results/r64_occ15-40img-rot90-fill0-255_n00-20_e98_hold_3881600_holdout_test/train_summary.json best_val_loss; r128: params 11171266 (buffers 9620) from resnet18 with checkpoint loaded; best_val_mse from eval_results/r128_occ15-40img-rot90-fill0-255_n00-20_e98_hold_3881604_holdout_test/train_summary.json best_val_loss; r256: params 11171266 (buffers 9620) from resnet18 with checkpoint loaded; best_val_mse from eval_results/r256_occ15-40img-rot90-fill0-255_n00-20_e98_hold_3881612_holdout_test/train_summary.json best_val_loss; r512: params 11171266 (buffers 9620) from resnet18 with checkpoint loaded; best_val_mse from eval_results/r512_occ15-40img-rot90-fill0-255_n00-20_e98_hold_3881616_holdout_test/train_summary.json best_val_loss; mlp128: params 17051554 (buffers 2627) from mlp with checkpoint loaded; best_val_mse from eval_results/mlp_r128_occ15-40img-rot90-fill0-255_n00-20_e98_hold_3881608_holdout_test/train_summary.json best_val_loss.
+**Notes.** Units: MB = 2^20 bytes; errors in degrees. `arch` is detected from the checkpoint keys (resnet18, or mlp = the 4-layer fully connected SimpleFC on the flattened r*r input). `params` is the number of trainable parameters (ResNet-18: independent of input size because of the adaptive average pool; MLP: dominated by the first layer, r*r*1024); the state dicts additionally hold BatchNorm buffer values (running mean/var, num_batches_tracked, per row below), not counted in `params`. `weights_MB` is the float32 size of the state dict's floating-point tensors (parameters plus BatchNorm running statistics). RAM columns are measured, not estimated: for each resolution a fresh Python subprocess (CPU only, torch 2.6.0+cu118, torch.set_num_threads(4) to match the 4-core Raspberry Pi 4) imports torch and the model definitions (app/inference.py), then records VmRSS from /proc/self/status as the baseline; VmHWM was reset to the baseline RSS via /proc/self/clear_refs before building the model. It then builds the model, loads the checkpoint (state dict freed after loading), runs 5 forwards in torch.inference_mode on a float32 (1, 1, r, r) input and records VmHWM. `RAM_peak_MB` = overall peak VmHWM (build, load and forwards) minus baseline VmRSS; at batch 1 up to r256 it is set by weight loading (model plus the transient state dict copy), so it barely depends on resolution. `RAM_forward_MB` = peak increase during the forward passes only: after loading, VmHWM is reset again and the column is VmHWM after the forwards minus VmRSS before them; this is the activation/workspace part that scales with resolution. Absolute values: mlp r128: peak 513 MB absolute (baseline 379 MB, load peak 513 MB, RSS after load 448 MB, forward-only peak increase 3.0 MB, RSS after inference 451 MB, weights loaded from checkpoint), mlp r256: peak 897 MB absolute (baseline 379 MB, load peak 897 MB, RSS after load 640 MB, forward-only peak increase 3.2 MB, RSS after inference 644 MB, weights loaded from checkpoint), resnet18 r64: peak 469 MB absolute (baseline 379 MB, load peak 469 MB, RSS after load 430 MB, forward-only peak increase 11.5 MB, RSS after inference 441 MB, weights loaded from checkpoint), resnet18 r128: peak 469 MB absolute (baseline 379 MB, load peak 469 MB, RSS after load 430 MB, forward-only peak increase 16.3 MB, RSS after inference 446 MB, weights loaded from checkpoint), resnet18 r256: peak 469 MB absolute (baseline 379 MB, load peak 469 MB, RSS after load 430 MB, forward-only peak increase 27.7 MB, RSS after inference 458 MB, weights loaded from checkpoint), resnet18 r512: peak 501 MB absolute (baseline 379 MB, load peak 469 MB, RSS after load 430 MB, forward-only peak increase 71.3 MB, RSS after inference 474 MB, weights loaded from checkpoint). The probe ran on this x86-64 machine with a CUDA build of torch, so absolute RSS (dominated by the torch import) is not representative of a Pi; the increase is the model-specific part, though ARM CPU kernels may use different workspace memory. `best_val_mse` is the best validation MSE (training loss on normalized targets) from train_summary.json, else the W&B run summary. Evaluation cells are mean ± std, std over perturbation seeds (`runs`); clean has a single run and shows only the mean. Both splits: closed-loop replay over the 0.1 deg grid (utils/eval_sweep.py, eval_dir/sweep.csv), metric = final angular error after the loop, averaged over `starts` start positions. Conditions: noisy = noise_0.20, occlusion = occlusion_2x30, combined_harsh. Per-row sources: r64: params 11171266 (buffers 9620) from resnet18 with checkpoint loaded; best_val_mse from eval_results/r64_occ15-40img-rot90-fill0-255_n00-20_e98_hold_3881600_holdout_test/train_summary.json best_val_loss; r128: params 11171266 (buffers 9620) from resnet18 with checkpoint loaded; best_val_mse from eval_results/r128_occ15-40img-rot90-fill0-255_n00-20_e98_hold_3881604_holdout_test/train_summary.json best_val_loss; r256: params 11171266 (buffers 9620) from resnet18 with checkpoint loaded; best_val_mse from eval_results/r256_occ15-40img-rot90-fill0-255_n00-20_e98_hold_3881612_holdout_test/train_summary.json best_val_loss; r512: params 11171266 (buffers 9620) from resnet18 with checkpoint loaded; best_val_mse from eval_results/r512_occ15-40img-rot90-fill0-255_n00-20_e98_hold_3881616_holdout_test/train_summary.json best_val_loss; mlp128: params 17051554 (buffers 2627) from mlp with checkpoint loaded; best_val_mse from eval_results/mlp_r128_occ15-40img-rot90-fill0-255_n00-20_e98_hold_3881608_holdout_test/train_summary.json best_val_loss; mlp256: params 67383202 (buffers 2627) from mlp with checkpoint loaded; best_val_mse from eval_results/mlp_r256_occ15-40img-rot90-fill0-255_n00-20_e98_hold_3943793_eval_grid/train_summary.json best_val_loss.

diff --git a/reports/data/tables_v2.md b/reports/data/tables_v2.md
@@ -7,6 +7,7 @@
 | 256 px ResNet | r256_occ15-40img-rot90-fill0-255_n00-20_e98_hold_3881612 | 91 | 1.61e-05 |
 | 512 px ResNet | r512_occ15-40img-rot90-fill0-255_n00-20_e98_hold_3881616 | 98 | 2.18e-05 |
 | 128 px MLP | mlp_r128_occ15-40img-rot90-fill0-255_n00-20_e98_hold_3881608 | 98 | 5.42e-05 |
+| 256 px MLP | mlp_r256_occ15-40img-rot90-fill0-255_n00-20_e98_hold_3943793 | 91 | 5.09e-05 |
 
 ### Grid closed loop by start area (clean): success; corrections; final error
 
@@ -19,6 +20,7 @@
 | 256 px ResNet | 100.0%; 1.02; 0.0076° | 100.0%; 1.02; 0.0097° | 100.0%; 1.05; 0.0100° |
 | 512 px ResNet | 100.0%; 1.02; 0.0142° | 100.0%; 1.02; 0.0169° | 100.0%; 1.05; 0.0176° |
 | 128 px MLP | 100.0%; 1.19; 0.0231° | 100.0%; 1.24; 0.0256° | 100.0%; 1.28; 0.0250° |
+| 256 px MLP | 100.0%; 1.15; 0.0234° | 100.0%; 1.18; 0.0246° | 100.0%; 1.21; 0.0244° |
 
 ### Noise curve: closed-loop final error (°), mean ± std over 10 seeds
 
@@ -31,3 +33,4 @@
 | 256 px ResNet | 0.0093 ± 0.0000 | 0.0091 ± 0.0001 | 0.0092 ± 0.0001 | 0.0117 ± 0.0001 | 0.0158 ± 0.0002 | 0.0211 ± 0.0002 | 0.0256 ± 0.0002 | 0.0280 ± 0.0002 | 0.0315 ± 0.0002 |
 | 512 px ResNet | 0.0158 ± 0.0000 | 0.0144 ± 0.0001 | 0.0146 ± 0.0001 | 0.0159 ± 0.0002 | 0.0175 ± 0.0002 | 0.0194 ± 0.0002 | 0.0227 ± 0.0003 | 0.0276 ± 0.0003 | 0.0383 ± 0.0002 |
 | 128 px MLP | 0.0286 ± 0.0000 | 0.0268 ± 0.0001 | 0.0259 ± 0.0001 | 0.0262 ± 0.0002 | 0.0266 ± 0.0002 | 0.0277 ± 0.0002 | 0.0298 ± 0.0002 | 0.0330 ± 0.0002 | 0.0411 ± 0.0004 |
+| 256 px MLP | 0.0271 ± 0.0000 | 0.0274 ± 0.0000 | 0.0286 ± 0.0001 | 0.0290 ± 0.0001 | 0.0289 ± 0.0002 | 0.0296 ± 0.0003 | 0.0314 ± 0.0002 | 0.0341 ± 0.0003 | 0.0445 ± 0.0003 |

diff --git a/reports/holdout_resolution_study.md b/reports/holdout_resolution_study.md
@@ -242,7 +242,7 @@ eval mode, by 2.7× instead of 550×.
 ## 8. Figures per model
 
 - **Heatmaps:** the clean grid closed loop over all 2,320 starts, with TEST regions outlined in
-  green and VALIDATION regions in orange. Neither region shows up as a worse area.
+  cyan and VALIDATION regions in orange. Neither region shows up as a worse area.
 - **Noise curve:** closed-loop final error vs σ with success rate, over 10 evaluation seeds.
 
 ### 64 px ResNet
